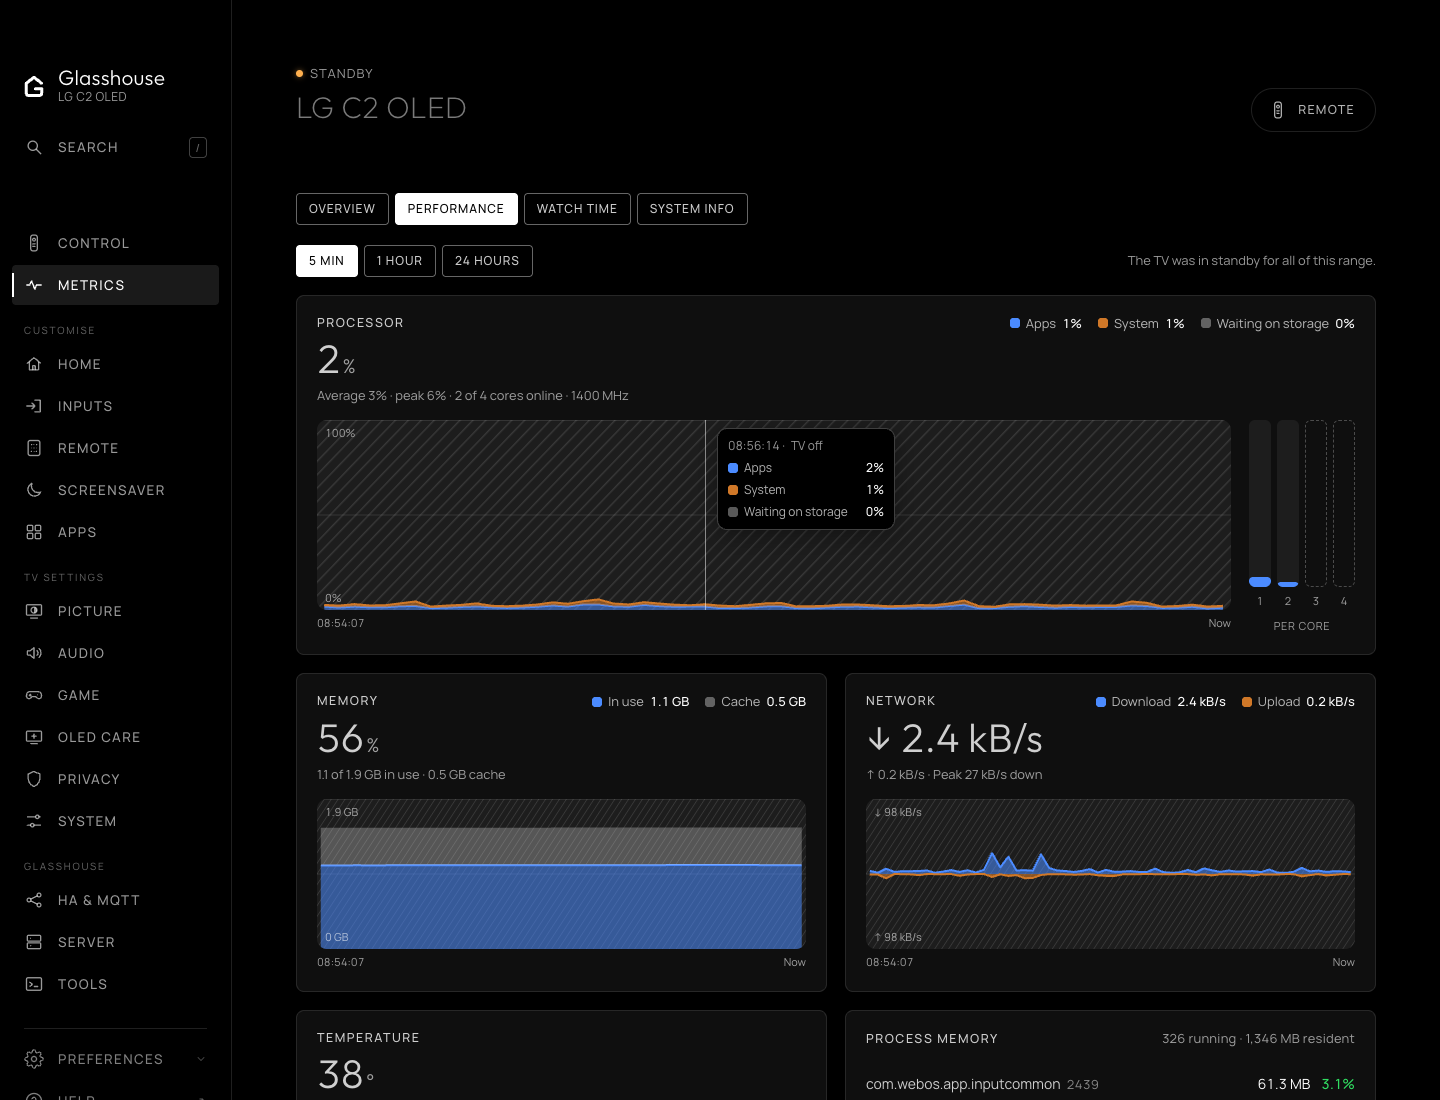
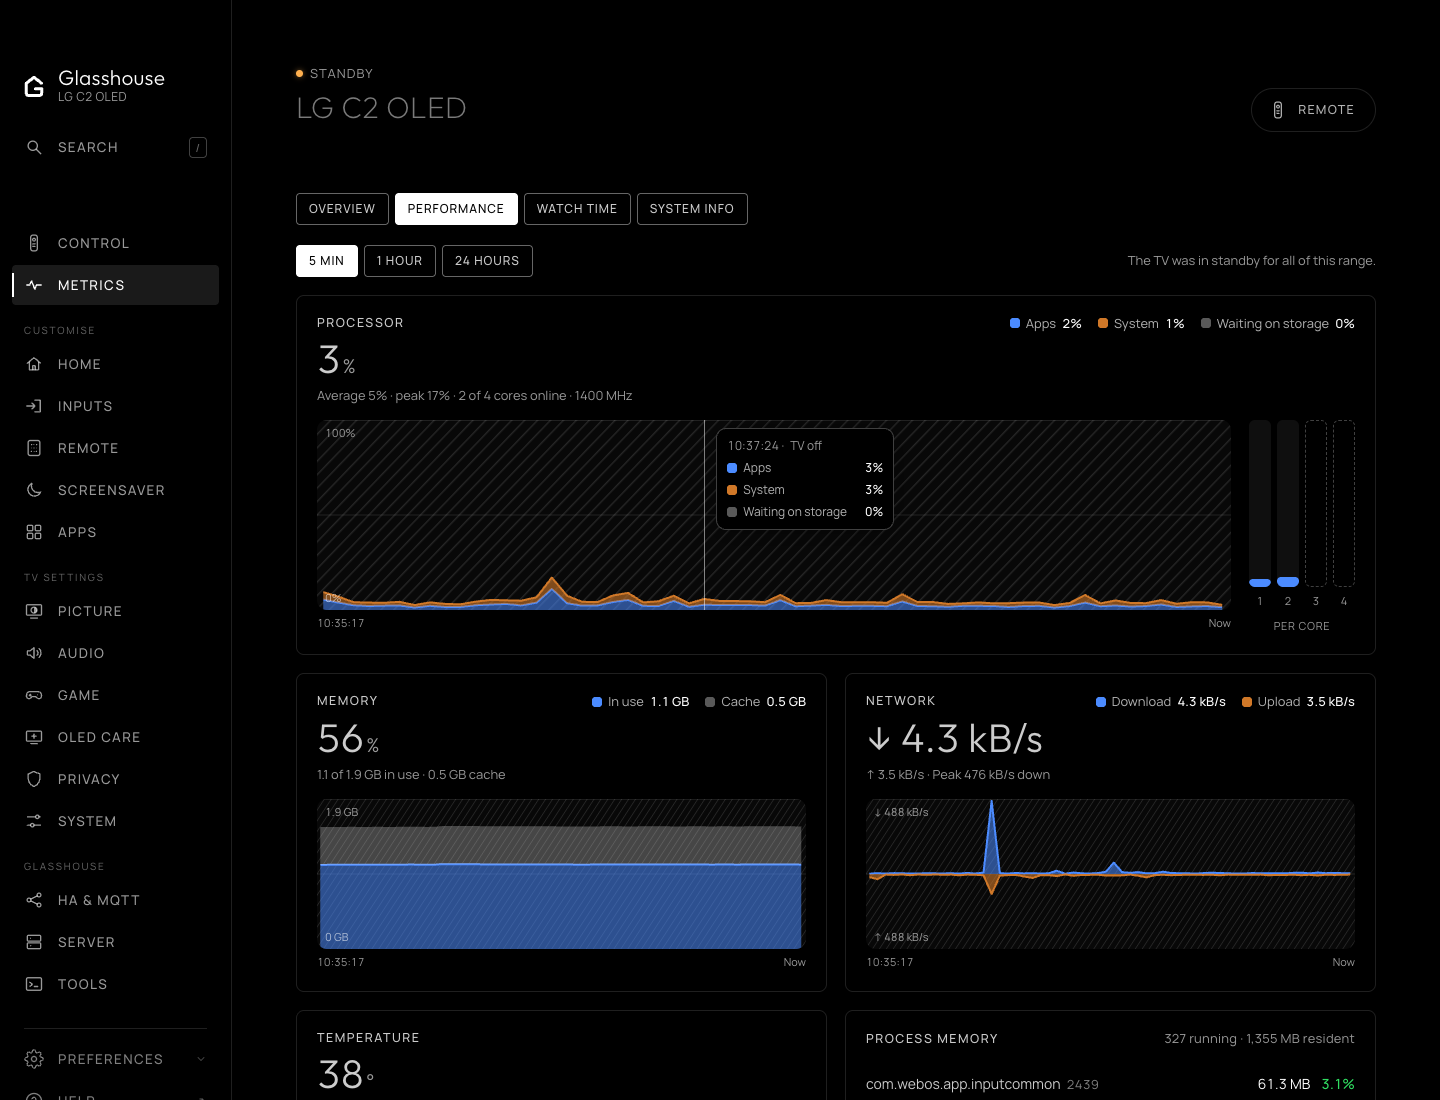
Performance: black cards with borders, like the rest of the dashboard

diff --git a/server/assets/ui/ui.css b/server/assets/ui/ui.css
@@ -1294,7 +1294,7 @@ button.pill.flash.idle[disabled]:hover{color:var(--w60);border-color:var(--edge)
 .perf-note{font-size:13px;color:var(--w60)}
 .perf-grid{display:grid;grid-template-columns:1fr;gap:18px}
 @media (min-width:980px){.perf-grid{grid-template-columns:repeat(2,minmax(0,1fr))}.perf-wide{grid-column:1 / -1}}
-.perf-card{background:var(--w06);border:1px solid var(--w10);border-radius:var(--r-md,14px);padding:18px 20px 20px;min-width:0}
+.perf-card{background:transparent;border:1px solid var(--w12);border-radius:var(--r-md,14px);padding:18px 20px 20px;min-width:0}
 .perf-card[hidden]{display:none}
 .perf-top{display:flex;flex-wrap:wrap;align-items:flex-start;justify-content:space-between;gap:8px 18px;margin-bottom:14px}
 .perf-top .grp{margin:0 0 6px}
@@ -1308,7 +1308,7 @@ button.pill.flash.idle[disabled]:hover{color:var(--w60);border-color:var(--edge)
 .perf-sw.sa{background:var(--pf-a)} .perf-sw.sb{background:var(--pf-b)} .perf-sw.sn{background:var(--w35)} .perf-sw.st{background:var(--w80)}
 .perf-cpu-body{display:grid;grid-template-columns:minmax(0,1fr) auto;gap:18px;align-items:start}
 .perf-chart-wrap{min-width:0}
-.perf-chart{position:relative;height:150px;border-radius:10px;background:var(--w06);touch-action:pan-y}
+.perf-chart{position:relative;height:150px;border-radius:10px;background:rgba(var(--fg),.03);touch-action:pan-y}
 #perf-cpu-chart{height:190px}
 .perf-chart svg{position:absolute;inset:0;width:100%;height:100%;display:block;border-radius:10px}
 .perf-area{stroke:none}
